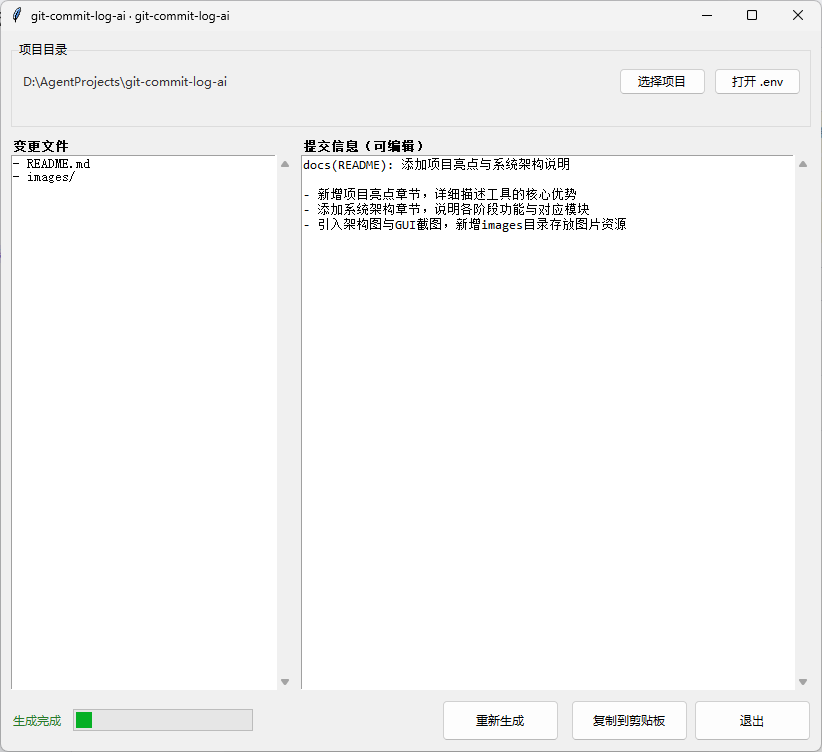
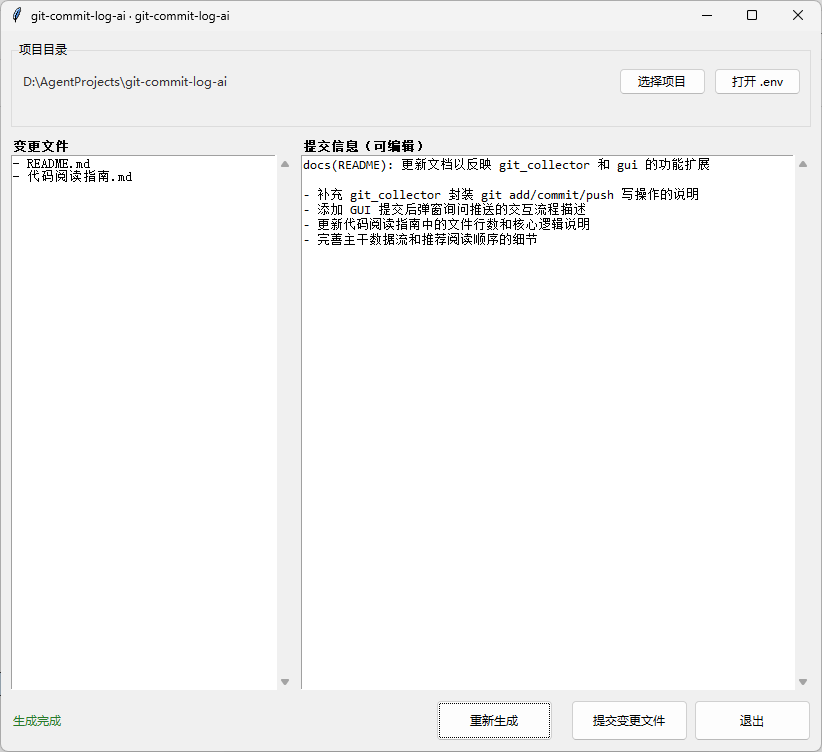
docs(README): 更新文档以反映最新功能变更
- 补充 git_collector 的写操作说明
- 更新 GUI 的提交推送流程描述
- 修正代码阅读指南中的行数与功能说明
- 同步更新架构图与界面截图

diff --git a/代码阅读指南.md b/代码阅读指南.md
@@ -1,13 +1,15 @@
 # git-commit-log-ai 代码阅读指南
 
-阅读本工程建议按「入口 → 数据流」的顺序进行，共 6 个文件、约 650 行，很快能读完。
+阅读本工程建议按「入口 → 数据流」的顺序进行，共 6 个文件、约 950 行，很快能读完。
 
 ## 主干数据流
 
 ```
-采集 → 组装 → 生成 → 交付
+采集 → 组装 → 生成 → 交付（提交 / 推送）
 git_collector → prompt_builder → llm_client → gui
 ```
+
+核心链路之外，`git_collector.py` 还负责 `git add -A` / `git commit -F -` / `git push` 写操作，`gui.py` 在生成完成后提供"编辑 → 提交 → 弹窗询问推送"的完整交付闭环。
 
 ## 推荐阅读顺序
 
@@ -18,18 +20,22 @@ git_collector → prompt_builder → llm_client → gui
 
 ### 第 1 步：`main.py`（真正入口）
 
-它是其他文件的“调度中心”，先看它就知道谁调谁。重点两处：
+它是其他文件的"调度中心"，先看它就知道谁调谁。重点两处：
 
 - `resolve_target()` — 处理 exe / 源码两种运行模式下项目目录的选择（`main.py:22`）
 - `main()` — `args.print` 分支走 CLI 流程（`main.py:61`），否则走 GUI 流程（`main.py:85`）
 
 从这里往下跳，可顺着调用链读完全部模块。
 
-### 第 2 步：`git_collector.py`（数据从哪来）
+### 第 2 步：`git_collector.py`（数据从哪来 + 写操作）
 
-- 核心是 `collect()`（`git_collector.py:78`）——一次拿到 status / diff / log 三路变更数据。
-- 关注 `_run_git()`（`git_collector.py:39`）shell 封装、`_truncate()`（`git_collector.py:69`）diff 截断。
-- `GitContext.summary()`（`git_collector.py:25`）决定了“喂给模型什么”。
+- 核心是 `collect()`（`git_collector.py:122`）——一次拿到 status / diff / log 三路变更数据。
+- 关注 `_run_git()`（`git_collector.py:39`）shell 封装，已扩展三个参数：
+  - `stdin` — 多行提交信息走 `git commit -F -` + 标准输入，避开命令行转义；
+  - `timeout` — 默认 60s，`push` 单独用 300s；
+  - `check=False` — 不抛异常，返回 `(returncode, stdout, stderr)` 元组（注意：**成功与失败都必须返回元组**，`has_upstream()` 依赖此契约）。
+- `_truncate()`（`git_collector.py:113`）diff 截断、`GitContext.summary()`（`git_collector.py:25`）决定"喂给模型什么"。
+- **写操作**（都在 `_run_git` 之后）：`add_all()`（`git_collector.py:75`）、`commit()`（`:80`）、`push()`（`:85`）、`current_branch()`（`:90`）、`has_upstream()`（`:95`）。GUI 的提交 / 推送都调这组函数。
 
 ### 第 3 步：`prompt_builder.py`（怎么组织上下文）
 
@@ -40,8 +46,9 @@ git_collector → prompt_builder → llm_client → gui
 
 - `generate_commit_message()`（`llm_client.py:31`）——模型调用的主函数。
 - 两个值得细读的辅助函数：
-  - `friendly_error()`（`llm_client.py:45`）——错误码 → 中文提示的映射表。
-  - `clean_message()`（`llm_client.py:77`）——清洗模型输出的脏字符串（代码块 / 空白）。
+  - `friendly_error()`（`llm_client.py:47`）——错误码 → 中文提示的映射表。
+  - `clean_message()`（`llm_client.py:79`）——清洗模型输出的脏字符串（代码块 / 空白）。
+- 超时在 `_build_client()`（`llm_client.py:12`）里设为 90 秒，超时报"请求超时"而不是无限挂起。
 
 ### 第 5 步：`config.py`（配置怎么读）
 
@@ -49,19 +56,25 @@ git_collector → prompt_builder → llm_client → gui
 
 ### 第 6 步：`gui.py`（界面层，最后读）
 
-- 唯一有状态的模块，行数最多。
-- 重点看线程模型：`generate()`（`gui.py:164`）后台线程调用 LLM，`_poll_result()`（`gui.py:188`）用 `queue` 轮询回填界面——这是“后台任务不卡界面”的经典模式。
+- 唯一有状态的模块，行数最多（约 480 行）。
+- **线程模型**：`generate()`（`gui.py:192`）、`commit_changes()`（`:321`）、`_do_push()`（`:403`）三个入口共用同一套"后台线程 + `queue` 轮询"模式——worker 跑耗时操作，`_poll_result()`（`gui.py:228`）用 `self._current_op` 区分操作类型，分发到 `_on_generate_done()` / `_handle_commit()` / `_handle_push()`。
+- **提交 → 推送闭环**（本工具最近的交互改版，建议细读）：
+  1. 点「提交变更文件」→ 确认框 → 后台 `add_all + commit`；
+  2. `_handle_commit()`（`:373`）成功 → 状态栏"提交成功（main abc1234）" → `_ask_push()`（`:393`）弹窗询问是否推送；
+  3. 选"是" → `_do_push()`（`:403`）后台执行 `git push`（300s 超时）；
+  4. `_handle_push()`（`:435`）处理成功 / 已最新 / 无上游（弹窗给出手动 `git push -u origin <分支>` 命令）/ 失败（弹窗询问是否重试）。
+- **界面防护**：`_set_status()`（`:310`）状态文字超 40 字符自动截断；`_show_progress()` / `_hide_progress()`（`:290` / `:299`）让进度条只在后台任务执行期间显示（闲时 `grid_remove`），两者配合避免长文字 / 进度条挤压底部按钮区。底部按钮区用 grid 分列（状态列 `weight=1` 吸收剩余空间，按钮列固定宽度）。
 
 ## 阅读姿势建议
 
 1. **对照 git log 读**：`git log --oneline -10` 查看提交历史，每个 commit 对应一个功能演进。
-2. **边读边画依赖图**：为每个模块找出“被谁 import、它 import 谁”：
+2. **边读边画依赖图**：为每个模块找出"被谁 import、它 import 谁"：
 
    ```
    main.py → config / git_collector / gui
-   gui.py  → llm_client / prompt_builder / config
+   gui.py  → llm_client / prompt_builder / config / git_collector(add_all/commit/push/...)
    ```
 
-3. **找扩展点**：想改行为时，`config.py` 的 8 个配置项就是可调旋钮，`.env.example` 有完整说明。
+3. **找扩展点**：想改行为时，`config.py` 的 8 个配置项就是可调旋钮，`.env.example` 有完整说明；GUI 交互的改动集中在 `gui.py` 的 `_handle_commit` / `_ask_push` / `_handle_push` 三个方法。
 
-**最快路径**：先跑一次 `python main.py --print`（CLI 模式），然后顺着 main.py 的 CLI 分支 → git_collector → prompt_builder → llm_client 读通核心链路；GUI 与 config 最后补。
+**最快路径**：先跑一次 `python main.py --print`（CLI 模式），然后顺着 main.py 的 CLI 分支 → git_collector → prompt_builder → llm_client 读通核心链路；GUI 与 config 最后补，重点看 `_poll_result` 的分发逻辑和提交 → 推送闭环。

diff --git a/README.md b/README.md
@@ -31,10 +31,10 @@
 
 | 阶段       | 做什么                                                       | 涉及模块                              |
 | ---------- | ------------------------------------------------------------ | ------------------------------------- |
-| 变更采集   | 对选中的 Git 项目执行 `status` / `diff HEAD` / `log`，得到变更清单、差异内容与历史风格 | `git_collector.py` / `subprocess`     |
+| 变更采集   | 对选中的 Git 项目执行 `status` / `diff HEAD` / `log`，得到变更清单、差异内容与历史风格；并封装 `git add -A` / `git commit -F -` / `git push` 写操作 | `git_collector.py` / `subprocess`     |
 | 上下文组装 | 按 `COMMIT_STYLE` 与 `COMMIT_LANGUAGE` 拼装 system / user Prompt，长 diff 截断 | `prompt_builder.py` / `config.py`     |
 | 模型生成   | 通过 OpenAI 兼容接口调用大模型，生成提交信息并清理多余前后缀/代码块 | `llm_client.py` / `langchain-openai`  |
-| 界面交付   | 后台线程生成，`queue` 轮询回填界面；支持编辑、提交（`git commit`）、推送（`git push`）、重新生成 | `gui.py` / `tkinter` |
+| 界面交付   | 后台线程生成，`queue` 轮询回填界面；支持编辑、提交（`git commit`）、推送（`git push`，提交成功后弹窗询问）、重新生成 | `gui.py` / `tkinter` |
 
 ![git-commit-log-ai 系统架构图](images/architecture.png)
 ![git-commit-log-ai gui](images/git-commit-log-ai-gui.png)
@@ -68,7 +68,7 @@ python main.py D:\my-project --print
 1. 双击 `git-commit-log-ai.exe` 运行
 2. 点击上方「打开.env」，填上模型名等配置
 3. 点击上方「选择项目」，选一个 Git 项目根目录
-4. 软件自动扫描该项目的变更并生成提交信息 → 点「提交变更文件」执行 `git commit`，提交成功后会弹窗询问是否推送到 GitHub，确认即执行 `git push`
+4. 软件自动扫描该项目的变更并生成提交信息（首次约需 10~30 秒，请耐心等待）→ 点「提交变更文件」执行 `git commit`，提交成功后会弹窗询问是否推送到 GitHub，确认即执行 `git push`
 
 ## 配置
 
@@ -90,7 +90,7 @@ python main.py D:\my-project --print
 git-commit-log-ai/
 ├── main.py                 # 入口
 ├── config.py               # .env 加载与配置
-├── git_collector.py        # git 命令收集（status + diff + log）
+├── git_collector.py        # git 命令封装（采集 status/diff/log + 提交 add/commit/push）
 ├── prompt_builder.py       # 提示词组装
 ├── llm_client.py           # 模型调用（OpenAI 兼容接口）
 ├── gui.py                  # 图形界面（tkinter）
